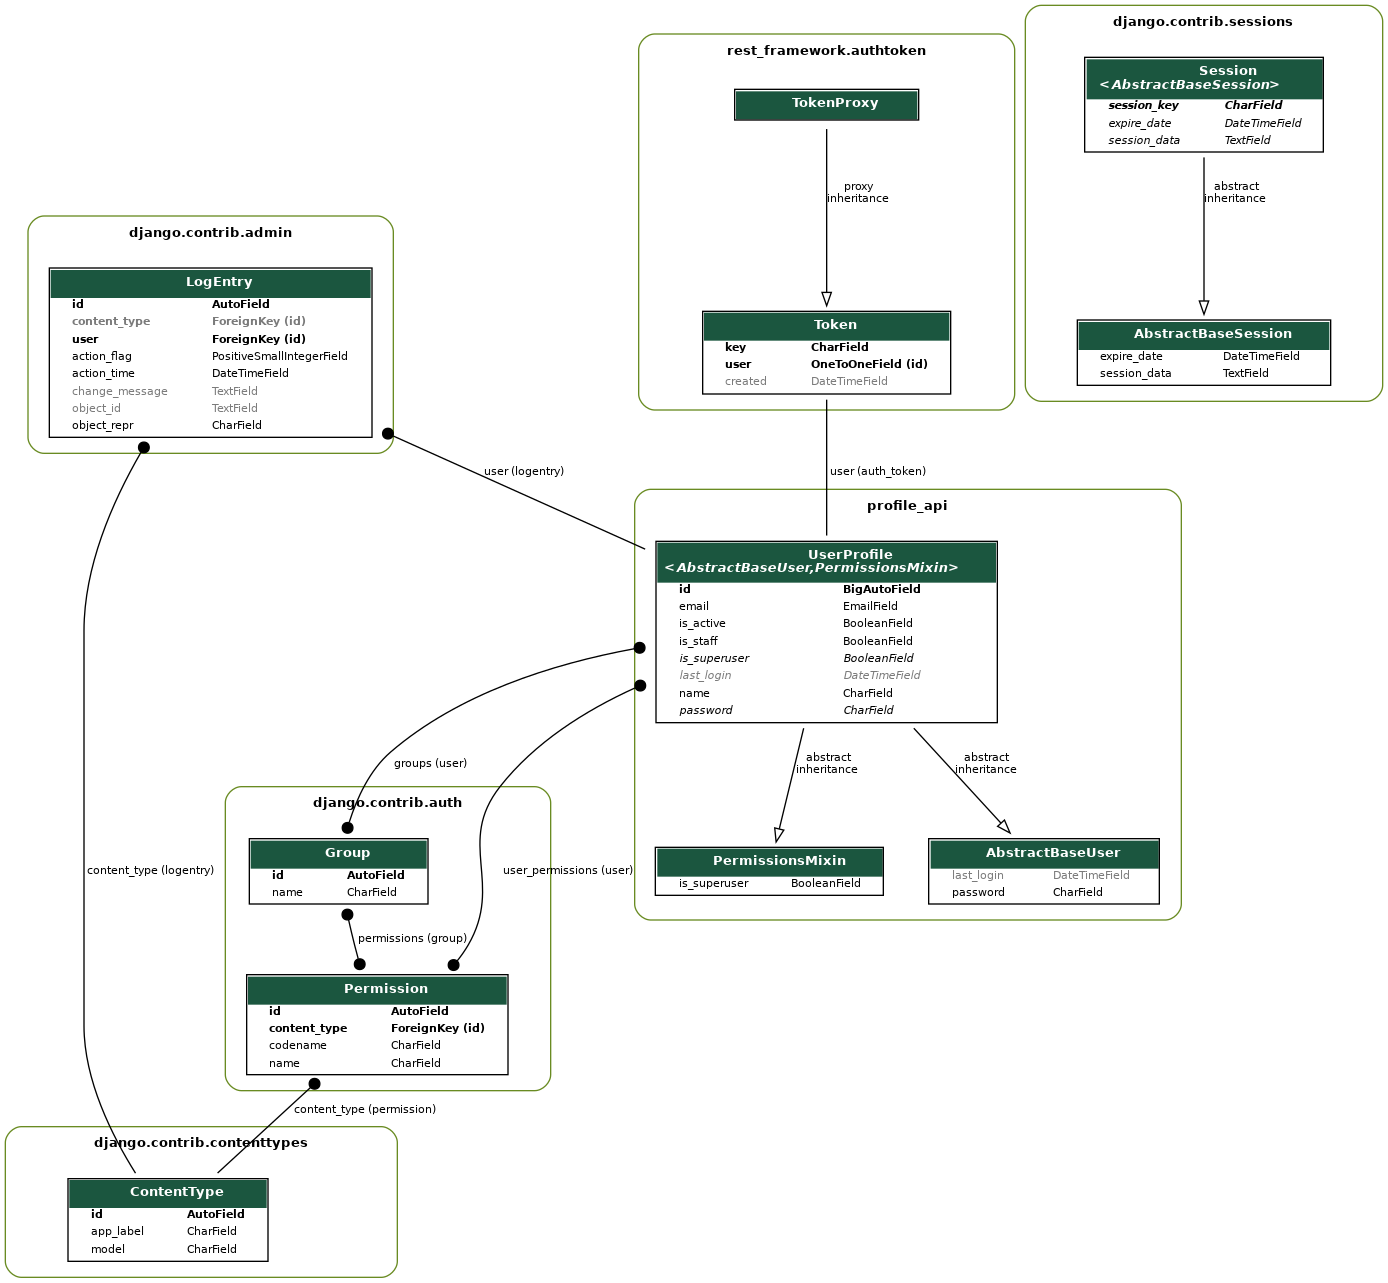
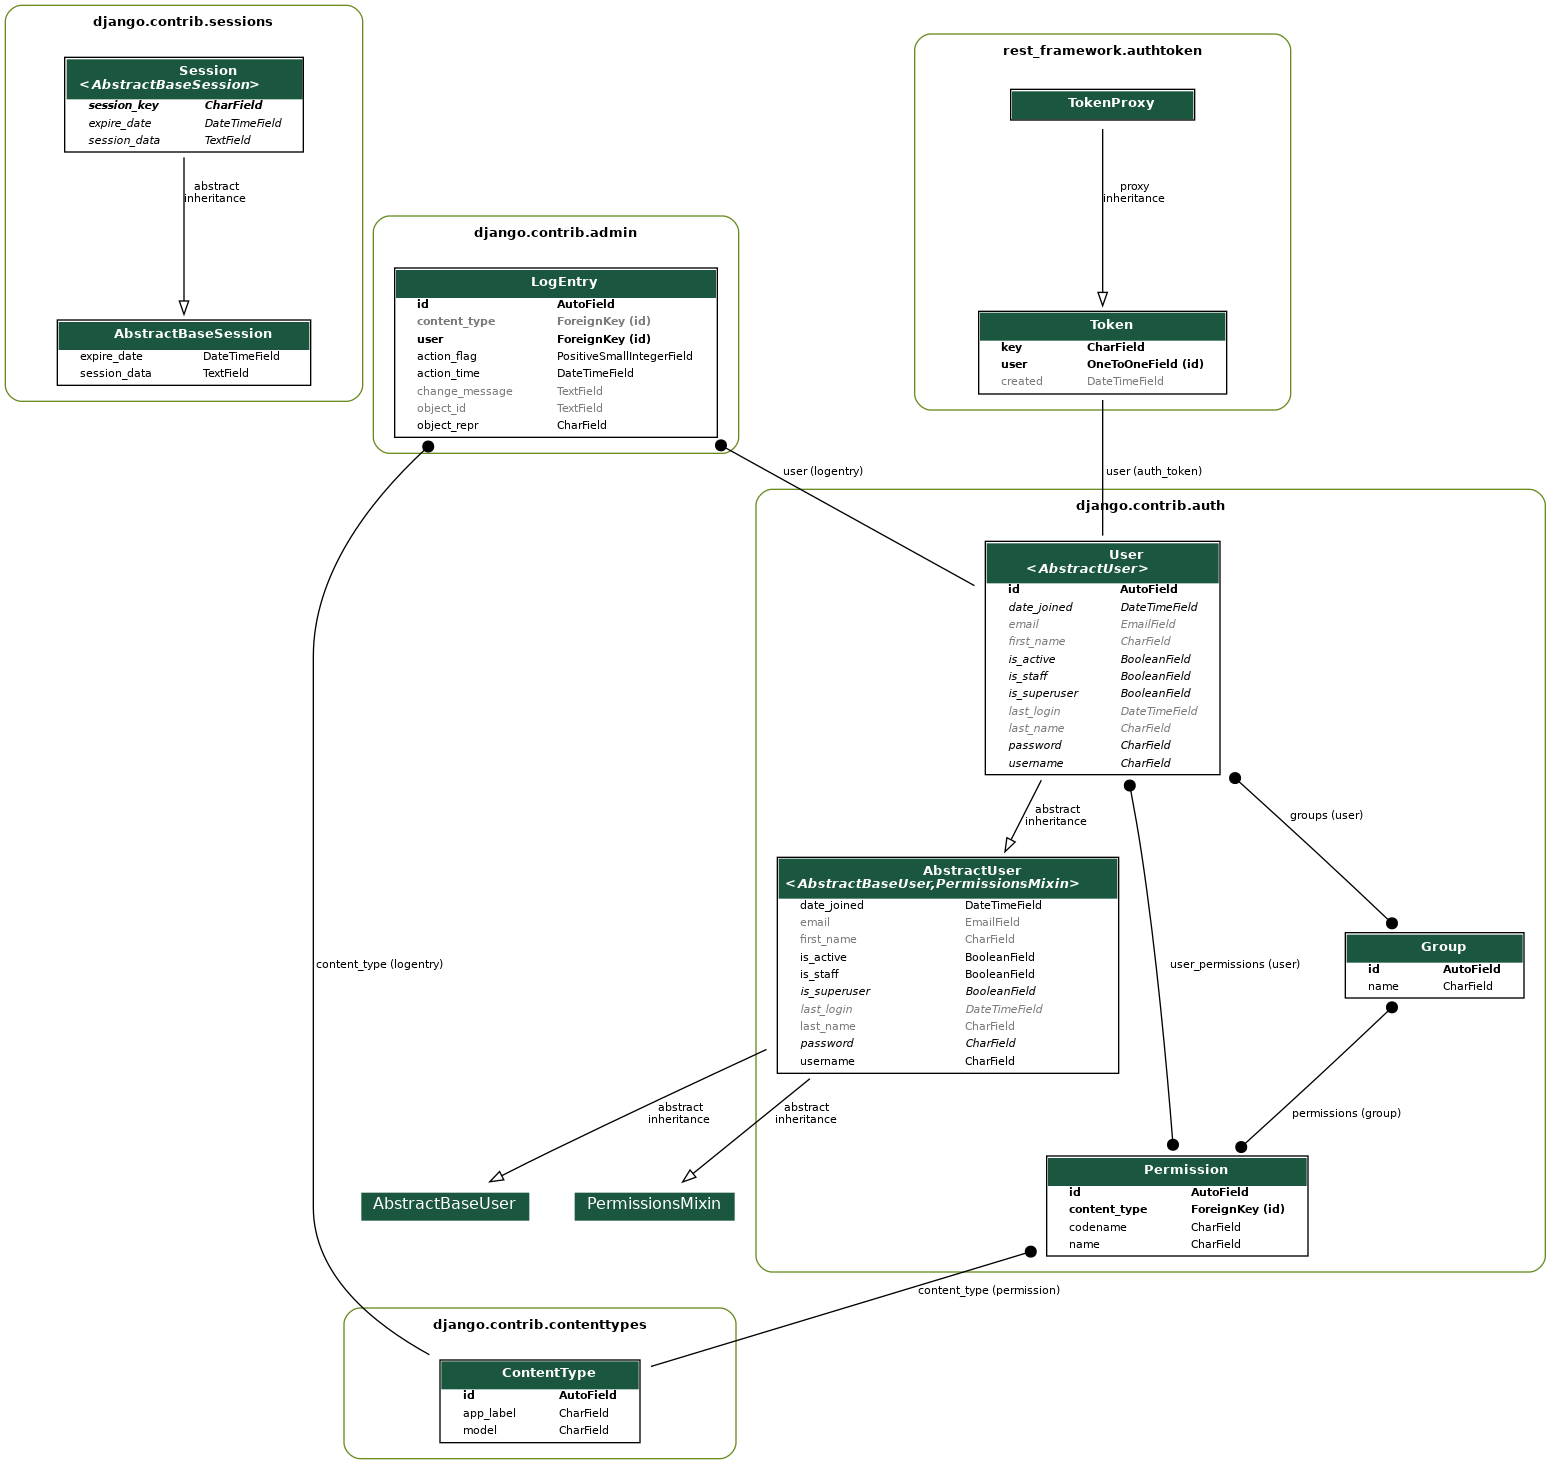
a few fixes

diff --git a/bookr_server/bookr/settings.py b/bookr_server/bookr/settings.py
@@ -39,6 +39,13 @@ INSTALLED_APPS = [
     "django.contrib.sessions",
     "django.contrib.messages",
     "django.contrib.staticfiles",
+    # Additional third party application applications
+    "django_extensions",  # A series of extensions for Django
+    "rest_framework",  # Add the rest framework
+    "rest_framework.authtoken",  # add support for Token
+    "drf_spectacular",
+    # Custom apps
+    "reviews",
 ]
 
 MIDDLEWARE = [
@@ -123,3 +130,9 @@ STATIC_URL = "static/"
 # https://docs.djangoproject.com/en/4.2/ref/settings/#default-auto-field
 
 DEFAULT_AUTO_FIELD = "django.db.models.BigAutoField"
+
+# See documentation on Models
+GRAPH_MODELS = {
+    "all_applications": True,
+    "group_models": True,
+}

diff --git a/doc/apps/bookr/models.rst b/doc/apps/bookr/models.rst
@@ -1,30 +1,6 @@
 .. _profile-api-model:
 
-Profile Models
-**************
+Reviews
+*******
 
-.. thumbnail:: ./images/models.png
-
-The customized user is implemented as :py:class:`bookr.models.UserProfile`. It derives
-from the following classes:
-
-* :external+django:py:class:`django.contrib.auth.models.AbstractBaseUser`
-* :external+django:py:class:`django.contrib.auth.models.PermissionsMixin`
-
-For information on customizing the authentication, check :external+django:doc:`topics/auth/customizing`.
-For starter, Django supports a list of authentication backend. When a user attempts to login, all
-backend are tried until one succeeds. By default, Django uses the
-:external+django:py:class:`django.contrib.auth.backends.ModelBackend`.
-
-
-To understand the default authentication, check :external+django:doc:`topics/auth/default`.
-
-.. todo:: Check `Jazzband <https://github.com/jazzband/django-two-factor-auth>`_ to enable two factor authentication.
-
-.. todo:: There is the question of how to distinguish between an Employee and a Customer.
-          `Here is a pointer <https://stackoverflow.com/questions/72492218/django-user-model-employee-and-customer>`_
-          What we want to do is to tie the employee to an organization.
-
-          potential candidate:
-
-          * `django organizations <https://django-organizations.readthedocs.io/en/latest/reference/backends.html>`_
+...

diff --git a/doc/references/environment-setup.rst b/doc/references/environment-setup.rst
@@ -7,10 +7,32 @@ Environment Setup
 
 This chapter assumes that you do not have PDM, vagrant and virtual box installed on your machine.
 
+Development Tools
+=================
+
+* sqlite3
+
+    Required to run the django database shell ``❯ pdm run manage.py dbshell``
+
+    .. code-block:: shell
+
+        ❯ sudo apt install sqlite3
+
+* graphviz
+
+    Graphviz is required to generate a graph from the models. This can be done my calling
+    ``❯ make render-model``
+
+    .. code-block:: shell
+
+        ❯ sudo apt install graphviz # binaries
+        ❯ sudo apt install graphviz-dev # Headers to build the django-extensions
+
+
 Installing PDM
 ==============
 
-following the instructions provided on `the PDM main documentation <https://pdm.fming.dev/latest/#installation>`_
+follow the instructions provided on `the PDM main documentation <https://pdm.fming.dev/latest/#installation>`_
 
 Installing Vagrant && Virtual Box
 =================================
